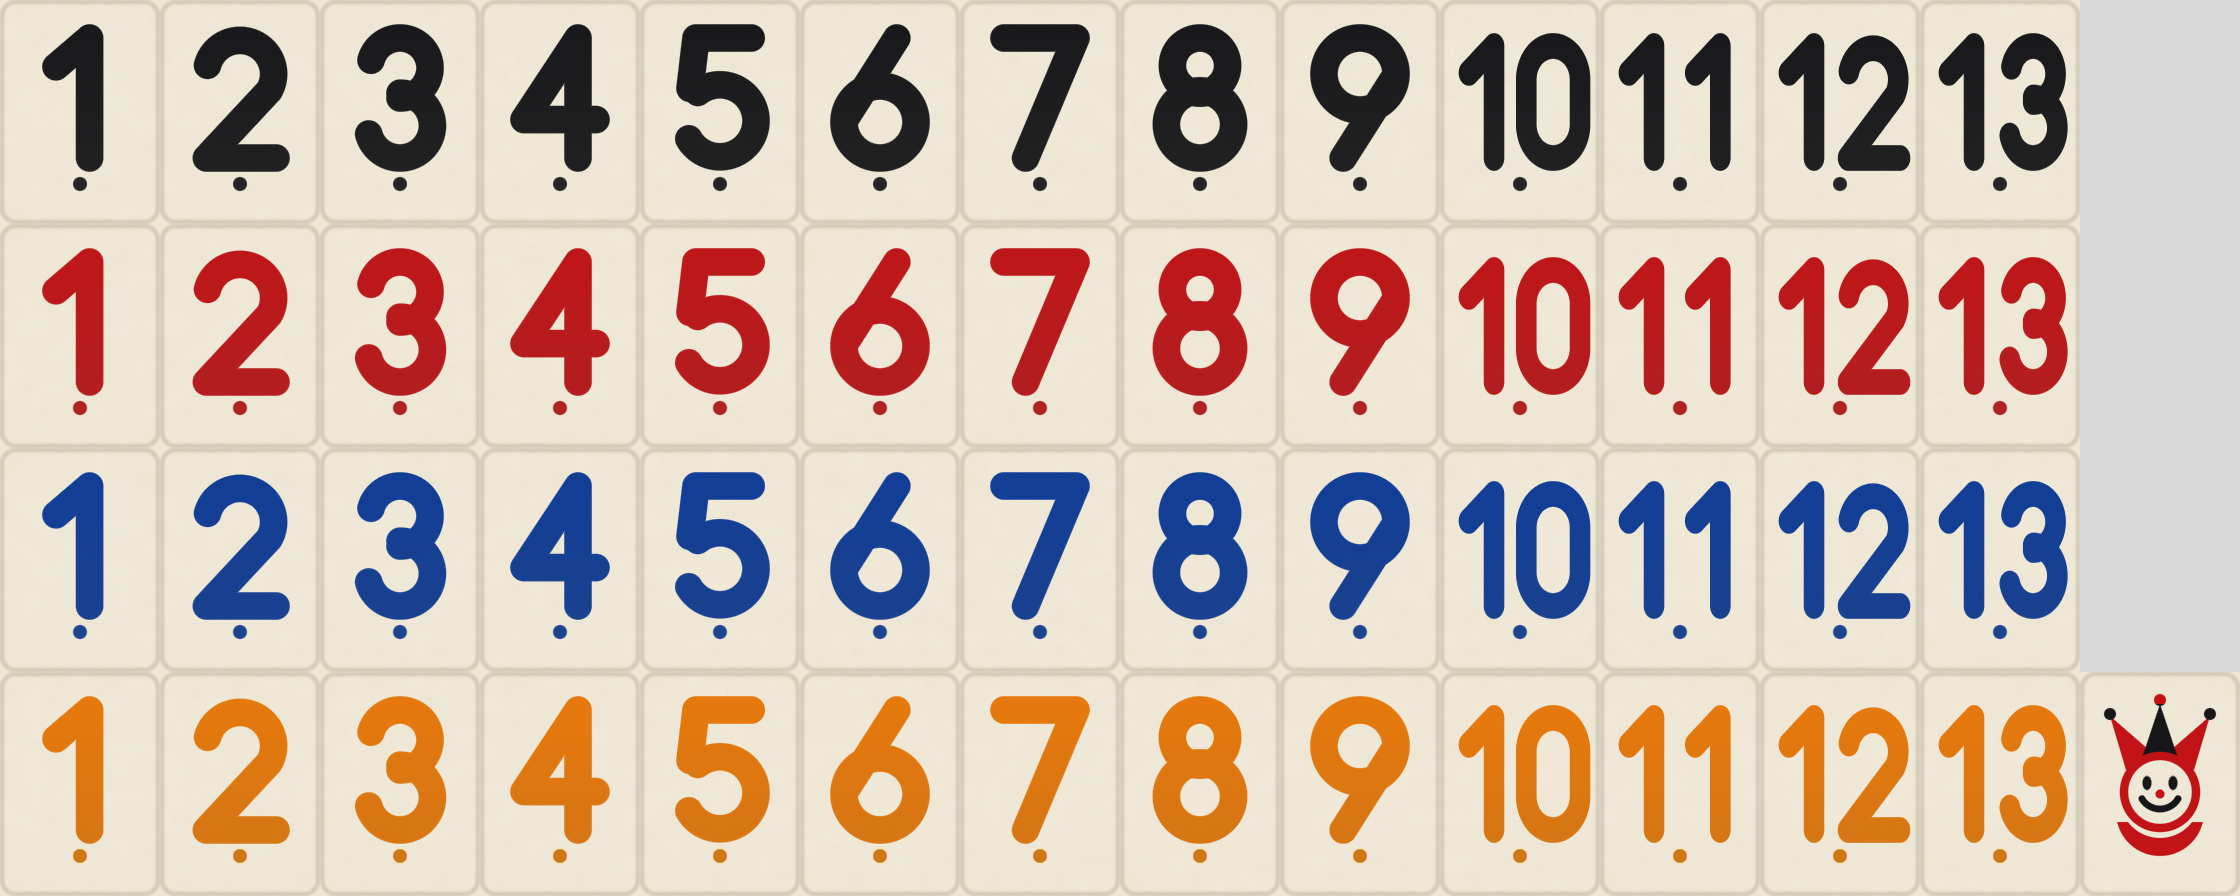
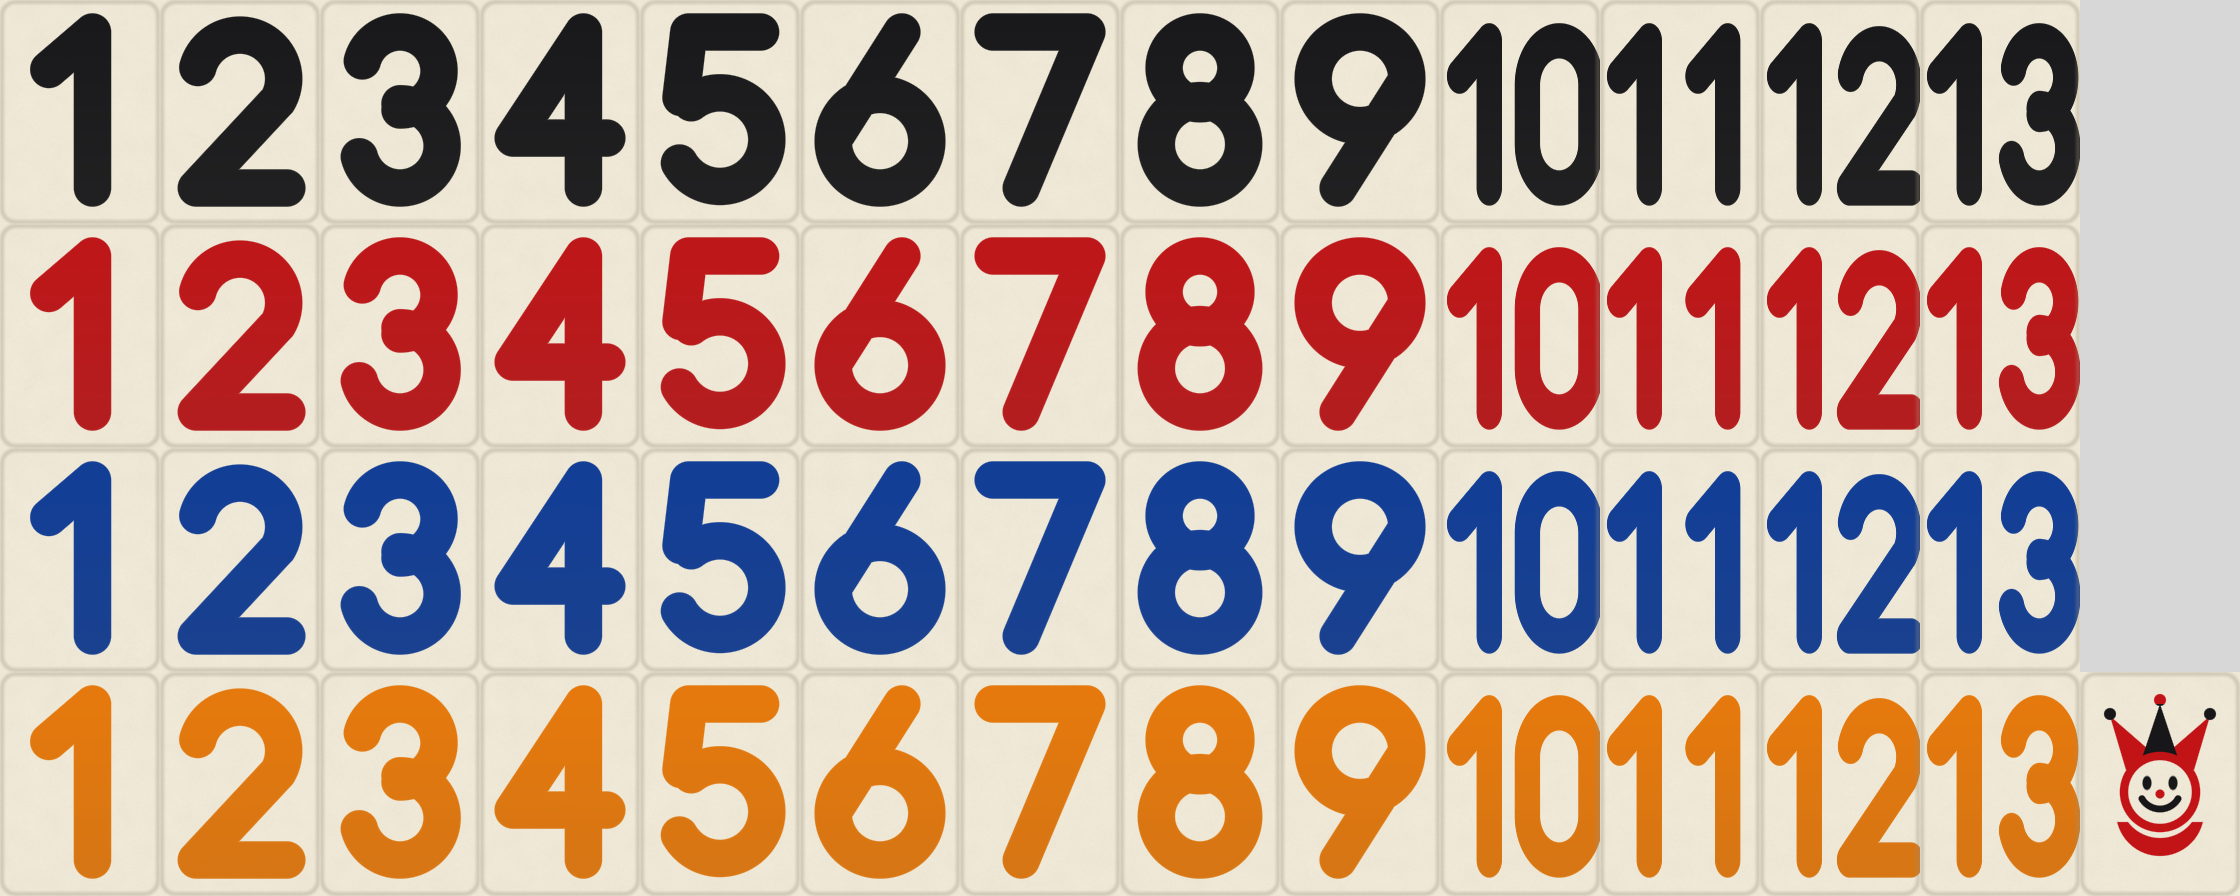
Deutlich größere Zahlen und Symbole auf Steinen und Karten (2.2.0)
- Rummikub: Zahlen nahezu über die volle Steinhöhe, Kamera steiler und näher am Tisch,
  Gegner-Bänke und eigene Bank enger am Spielfeld
- Rommé: Eckindex und Farbsymbol nochmals größer, Handkarten und Tischkarten größer,
  flacherer Handfächer, Kamera näher
- Version 2.2.0 (Code 4)

Changed region(s): [[0.0, 0.0, 0.9375, 1.0]]

diff --git a/Assets/Scripts/Karten/View/CardTable.cs b/Assets/Scripts/Karten/View/CardTable.cs
@@ -35,7 +35,7 @@ namespace RommeCup.Karten
     public class CardTable
     {
         const string M = "CardTable";
-        public const float CW = 1f, CD = 1.4f, TH = .008f, HandZ = -5.1f, StageZ = -2.9f, PileZ = 5.0f, TopZ = 7.3f, SideX = 10.6f, MeldTop = 3.1f, HandScale = 1.45f, MeldScale = 1.32f, PileScale = 1.22f, CardStep = .0062f;
+        public const float CW = 1f, CD = 1.4f, TH = .008f, HandZ = -5.1f, StageZ = -2.9f, PileZ = 5.0f, TopZ = 7.3f, SideX = 10.6f, MeldTop = 3.1f, HandScale = 2.05f, MeldScale = 1.55f, PileScale = 1.22f, CardStep = .0062f;
         static readonly Quaternion Down = Quaternion.Euler(0, 0, 180);
         static readonly Vector3 StockPos = new Vector3(-2.1f, 0, PileZ), DiscPos = new Vector3(1.9f, 0, PileZ);
         public Camera Cam => Env.Cam;
@@ -178,7 +178,7 @@ namespace RommeCup.Karten
             var used = new HashSet<int>();
             var none = Color.black;
             int n = d.Hand.Length;
-            float step = n <= 1 ? 0 : Mathf.Min(4.4f, 64f / (n - 1)), R = 15f;
+            float step = n <= 1 ? 0 : Mathf.Min(2.9f, 42f / (n - 1)), R = 24f;
             var warm = new Color(.25f, .18f, .03f); var green = new Color(.04f, .26f, .1f);
             for (int i = 0; i < n; i++)
             {
@@ -191,12 +191,12 @@ namespace RommeCup.Karten
             }
             PlaceGroups(used, d, d.Staged, StageZ, CTag.Staged, 1.08f, green);
             float ms = 1;
-            foreach (var s in new[] { MeldScale, 1.05f, .9f, .78f, .66f })
+            foreach (var s in new[] { MeldScale, 1.35f, 1.15f, .98f, .84f, .7f })
             {
                 ms = s;
-                if (Rows(d.Melds, 15.5f, s) * 1.8f * s <= 6.6f) break;
+                if (Rows(d.Melds, 16.5f, s) * 1.8f * s <= 7f) break;
             }
-            PlaceGroups(used, d, d.Melds, MeldTop, CTag.Meld, ms, none, 15.5f, true);
+            PlaceGroups(used, d, d.Melds, MeldTop, CTag.Meld, ms, none, 16.5f, true);
             float dh = Mathf.Max(0, d.DCount - d.Disc.Length) * CardStep * PileScale;
             discBlock.SetActive(dh > 0);
             if (dh > 0) { discBlock.transform.position = DiscPos + Vector3.up * dh / 2; discBlock.transform.localScale = new Vector3(CW * PileScale * .97f, dh, CD * PileScale * .97f); }
@@ -287,9 +287,9 @@ namespace RommeCup.Karten
 
         void Fit(int n)
         {
-            float hx = n >= 3 ? SideX + 1.6f : 8.6f, zt = (n == 2 || n == 4) ? TopZ + 2f : PileZ + 1.6f, zb = HandZ - 2.9f;
+            float hx = n >= 3 ? SideX + 1.6f : 8.6f, zt = (n == 2 || n == 4) ? TopZ + 2f : PileZ + 1.6f, zb = HandZ - 1.5f;
             var pts = new[] { new Vector3(-hx, .3f, zt), new Vector3(hx, .3f, zt), new Vector3(-hx, 0, zb), new Vector3(hx, 0, zb), new Vector3(-9, .4f, HandZ), new Vector3(9, .4f, HandZ) };
-            Env.Fit(pts, 58, new Vector2(.01f, .835f), new Vector2(.01f, .83f), out camPos, out camRot, out focus, out camDist);
+            Env.Fit(pts, 62, new Vector2(.01f, .835f), new Vector2(.01f, .83f), out camPos, out camRot, out focus, out camDist);
         }
 
         public CView Pick(Vector2 screen)

diff --git a/Assets/Scripts/Rummikub/View/BoardView.cs b/Assets/Scripts/Rummikub/View/BoardView.cs
@@ -39,7 +39,7 @@ namespace RommeCup.Rummikub
         public static float FeltW => Board.Cols * PX + .9f;
         public static float FeltD => Board.Rows * PZ + .8f;
         public static float TopEdge => TableZ + FeltD / 2;
-        public static float RackZ0 => TableZ - FeltD / 2 - 1.5f;
+        public static float RackZ0 => TableZ - FeltD / 2 - 1.1f;
         static float HeapX0 => -FeltW / 2 - 5.6f;
         static float HeapZ0 => RackZ0 - .4f;
         public Camera Cam => Env.Cam;
@@ -121,8 +121,8 @@ namespace RommeCup.Rummikub
             for (int s = 1; s <= n; s++)
             {
                 OppSpan(s, n, out var cx, out var w);
-                Env.Cube(oppGo.transform, "OppBase" + s, new Vector3(cx, .14f, TopEdge + 1.35f), new Vector3(w, .28f, 1.7f), plastic);
-                Env.Cube(oppGo.transform, "OppStep" + s, new Vector3(cx, .32f, TopEdge + .95f), new Vector3(w, .2f, .8f), plastic);
+                Env.Cube(oppGo.transform, "OppBase" + s, new Vector3(cx, .14f, TopEdge + 1.05f), new Vector3(w, .28f, 1.5f), plastic);
+                Env.Cube(oppGo.transform, "OppStep" + s, new Vector3(cx, .32f, TopEdge + .7f), new Vector3(w, .2f, .7f), plastic);
             }
             FitCamera();
         }
@@ -142,7 +142,7 @@ namespace RommeCup.Rummikub
             float sp = Mathf.Min(step, (w - .4f) / Mathf.Max(1, per));
             rot = Quaternion.Euler(65, 0, 0);
             float x = cx + (k - (per - 1) / 2f) * sp;
-            return tier == 0 ? new Vector3(x, .3f, TopEdge + 1.55f) : new Vector3(x, .48f, TopEdge + .85f);
+            return tier == 0 ? new Vector3(x, .3f, TopEdge + 1.25f) : new Vector3(x, .48f, TopEdge + .62f);
         }
 
         static Vector3 HeapPos(int i, out Quaternion rot)
@@ -329,7 +329,7 @@ namespace RommeCup.Rummikub
         {
             float hw = FeltW / 2 + .3f, zt = TopEdge + .3f, zb = withRack ? RowZ(RackRows - 1) - RPZ / 2 - .2f : RackZ0 - 1;
             var l = new List<Vector3> { new Vector3(-hw, 0, zt), new Vector3(hw, 0, zt), new Vector3(-hw, 0, zb), new Vector3(hw, 0, zb), new Vector3(HeapX0 - .7f, 0, HeapZ0 - .8f), new Vector3(HeapX0 - .7f, .6f, HeapZ0 + 10 * 1.5f + .8f) };
-            if (oppN > 0) { l.Add(new Vector3(-hw, 1.2f, TopEdge + 2.3f)); l.Add(new Vector3(hw, 1.2f, TopEdge + 2.3f)); }
+            if (oppN > 0) { l.Add(new Vector3(-hw, 1f, TopEdge + 1.8f)); l.Add(new Vector3(hw, 1f, TopEdge + 1.8f)); }
             if (withRack) { l.Add(new Vector3(-hw, RowY(0) + .5f, zb)); l.Add(new Vector3(hw, RowY(0) + .5f, zb)); }
             return l.ToArray();
         }
@@ -337,7 +337,7 @@ namespace RommeCup.Rummikub
         public void FitCamera()
         {
             if (!Cam || backdrop) return;
-            Env.Fit(Bounds(true), 57, new Vector2(.008f, .838f), new Vector2(.008f, .835f), out camPos, out camRot, out focus, out camDist);
+            Env.Fit(Bounds(true), 63, new Vector2(.008f, .838f), new Vector2(.008f, .835f), out camPos, out camRot, out focus, out camDist);
         }
 
         public void Update(float dt)

diff --git a/Assets/Scripts/Rummikub/View/TileArt.cs b/Assets/Scripts/Rummikub/View/TileArt.cs
@@ -10,7 +10,7 @@ namespace RommeCup.Rummikub
         public static readonly Color[] Ink = { new Color(.09f, .09f, .1f), new Color(.76f, .08f, .09f), new Color(.06f, .24f, .6f), new Color(.92f, .48f, .04f) };
         public static readonly Color Ivory = new Color(.95f, .925f, .86f), IvoryDark = new Color(.9f, .87f, .79f);
         static readonly Dictionary<int, Texture2D> normals = new Dictionary<int, Texture2D>();
-        const float NumBase = 70, Dot = 27;
+        const float NumBase = 36;
 
         static void Base(Pix p, int seed)
         {
@@ -22,13 +22,13 @@ namespace RommeCup.Rummikub
             p.Noise(.012f, seed);
         }
 
-        static float Sx(string s) => s.Length > 1 ? .8f : 1f;
+        static float Sx(string s) => s.Length > 1 ? .72f : 1f;
 
         static void NumberShape(string s, out float ox, out float h, out float th)
         {
-            h = s.Length > 1 ? 112 : 120; float w = Glyphs.Width(s) * h * Sx(s);
-            if (w > W - 22) { h *= (W - 22) / w; w = W - 22; }
-            ox = W / 2f - w / 2; th = h * .115f;
+            h = s.Length > 1 ? 152 : 156; float w = Glyphs.Width(s) * h * Sx(s);
+            if (w > W - 28) { h *= (W - 28) / w; w = W - 28; }
+            ox = W / 2f - w / 2; th = h * .12f;
         }
 
         static float NumSdf(string s, float x, float y, float ox, float h, float th) => Glyphs.Dist(s, ox + (x - ox) / Sx(s), y, ox, NumBase, h) - th;
@@ -43,8 +43,6 @@ namespace RommeCup.Rummikub
             float x0 = 0, y0 = NumBase - 22, y1 = NumBase + h + 22;
             p.Draw((x, y) => NumSdf(s, x, y, ox, h, th) + 1.2f, new Color(0, 0, 0, .28f), x0, y0, W, y1, 2.5f);
             p.Draw((x, y) => NumSdf(s, x, y, ox, h, th), (x, y) => { float k = Mathf.Clamp01((y - NumBase) / h); return Color.Lerp(ink * .9f, ink, k * .5f + .3f); }, x0, y0, W, y1);
-            p.Draw((x, y) => Sdf.Circle(x, y, W / 2f, Dot, 6) + 1, new Color(0, 0, 0, .22f), W / 2f - 14, Dot - 14, W / 2f + 14, Dot + 14, 2);
-            p.Draw((x, y) => Sdf.Circle(x, y, W / 2f, Dot, 6), ink * .9f, W / 2f - 12, Dot - 12, W / 2f + 12, Dot + 12);
             Edge(p);
             return p.Tex();
         }
@@ -64,7 +62,6 @@ namespace RommeCup.Rummikub
                 string s = key.ToString();
                 NumberShape(s, out var ox, out var h, out var th);
                 p.Height((x, y) => NumSdf(s, x, y, ox, h, th), -1.1f, 2.4f, 0, NumBase - 22, W, NumBase + h + 22);
-                p.Height((x, y) => Sdf.Circle(x, y, W / 2f, Dot, 6), -1f, 2.2f, W / 2f - 12, Dot - 12, W / 2f + 12, Dot + 12);
             }
             t = p.NormalTex(1.8f);
             normals[key] = t;

diff --git a/Assets/Scripts/Karten/View/CardArt.cs b/Assets/Scripts/Karten/View/CardArt.cs
@@ -63,12 +63,12 @@ namespace RommeCup.Karten
         static void Index(Pix p, int suit, string s, Color ink)
         {
             bool two = s.Length > 1;
-            float h = two ? 48 : 52, sx = two ? .66f : 1, cx = 27, top = H - 12;
+            float h = two ? 60 : 64, sx = two ? .6f : 1, cx = 30, top = H - 10;
             foreach (var f in new[] { false, true })
             {
-                Rank(p, s, cx, top, h, f, ink, sx, .12f);
-                float sy = top - h - 22;
-                Sym(p, suit, f ? W - cx : cx, f ? H - sy : sy, 15, f, ink);
+                Rank(p, s, cx, top, h, f, ink, sx, .13f);
+                float sy = top - h - 30;
+                Sym(p, suit, f ? W - cx : cx, f ? H - sy : sy, 20, f, ink);
             }
         }
 
@@ -99,8 +99,8 @@ namespace RommeCup.Karten
                 var pp = Pips[rank];
                 for (int i = 0; i < pp.Length; i += 2)
                 {
-                    float px = W / 2f + (pp[i] - .5f) * 70, py = 64 + pp[i + 1] * 186;
-                    Sym(p, suit, px, py, 17, pp[i + 1] < .49f, ink);
+                    float px = W / 2f + (pp[i] - .5f) * 66, py = 62 + pp[i + 1] * 190;
+                    Sym(p, suit, px, py, 18, pp[i + 1] < .49f, ink);
                 }
             }
             return p.Tex();
@@ -119,10 +119,10 @@ namespace RommeCup.Karten
 
         static void Court(Pix p, int suit, int rank, Color ink)
         {
-            float fx0 = 50, fx1 = W - 50, fy0 = 40, fy1 = H - 40, cx = W / 2f, mid = H / 2f;
+            float fx0 = 64, fx1 = W - 64, fy0 = 40, fy1 = H - 40, cx = W / 2f, mid = H / 2f;
             p.Draw((x, y) => Mathf.Abs(Sdf.Box(x, y, cx, mid, (fx1 - fx0) / 2, (fy1 - fy0) / 2, 3)) - 1.1f, ink);
             Color a = suit % 2 == 0 ? CRed : CBlue, b = suit % 2 == 0 ? CBlue : CRed, line = Black;
-            Func<float, float, float> robe = (x, y) => Sdf.Poly(x, y, new[] { new Vector2(cx - 58, mid), new Vector2(cx + 58, mid), new Vector2(cx + 40, mid + 54), new Vector2(cx - 40, mid + 54) });
+            Func<float, float, float> robe = (x, y) => Sdf.Poly(x, y, new[] { new Vector2(cx - 44, mid), new Vector2(cx + 44, mid), new Vector2(cx + 32, mid + 54), new Vector2(cx - 32, mid + 54) });
             Mirror(p, robe, (x, y) => { float band = Mathf.Repeat((x - cx) * .7f + (y - mid) * .9f, 28); return band < 9 ? a : band < 18 ? CYel : b; });
             Mirror(p, Outline(robe, 1.2f), line);
             Func<float, float, float> collar = (x, y) => Sdf.Ellipse(x, y, cx, mid + 56, 34, 9);

diff --git a/Assets/Editor/BuildScript.cs b/Assets/Editor/BuildScript.cs
@@ -40,7 +40,7 @@ namespace RommeCup.EditorTools
             PlayerSettings.SetIcons(NamedBuildTarget.Unknown, new[] { iconAsset }, IconKind.Any);
             PlayerSettings.companyName = "Domezos";
             PlayerSettings.productName = "Romme Cup Variety";
-            PlayerSettings.bundleVersion = "2.1.0";
+            PlayerSettings.bundleVersion = "2.2.0";
             PlayerSettings.SetApplicationIdentifier(NamedBuildTarget.Android, "com.domezos.rommecupvariety");
             PlayerSettings.SetScriptingBackend(NamedBuildTarget.Android, ScriptingImplementation.IL2CPP);
             PlayerSettings.SetManagedStrippingLevel(NamedBuildTarget.Android, ManagedStrippingLevel.Minimal);
@@ -55,7 +55,7 @@ namespace RommeCup.EditorTools
                 AndroidExternalToolsSettings.sdkRootPath = sdk;
                 Debug.Log("[RC] sdk=" + sdk);
             }
-            PlayerSettings.Android.bundleVersionCode = 3;
+            PlayerSettings.Android.bundleVersionCode = 4;
             PlayerSettings.Android.applicationEntry = AndroidApplicationEntry.Activity;
             PlayerSettings.defaultInterfaceOrientation = UIOrientation.AutoRotation;
             PlayerSettings.allowedAutorotateToPortrait = false;
